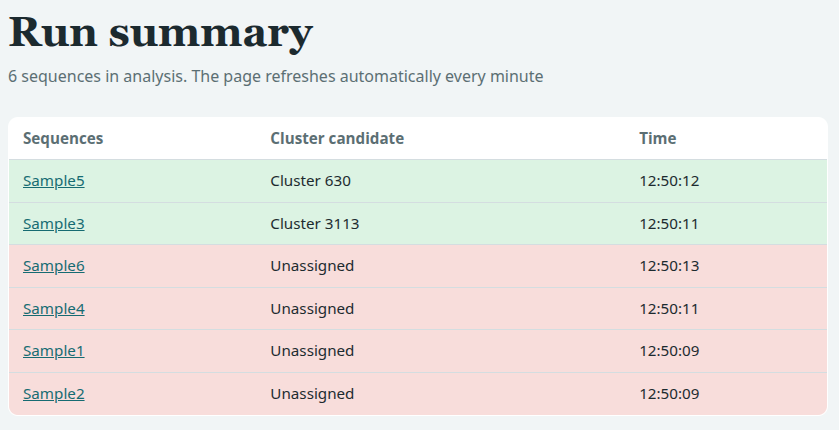
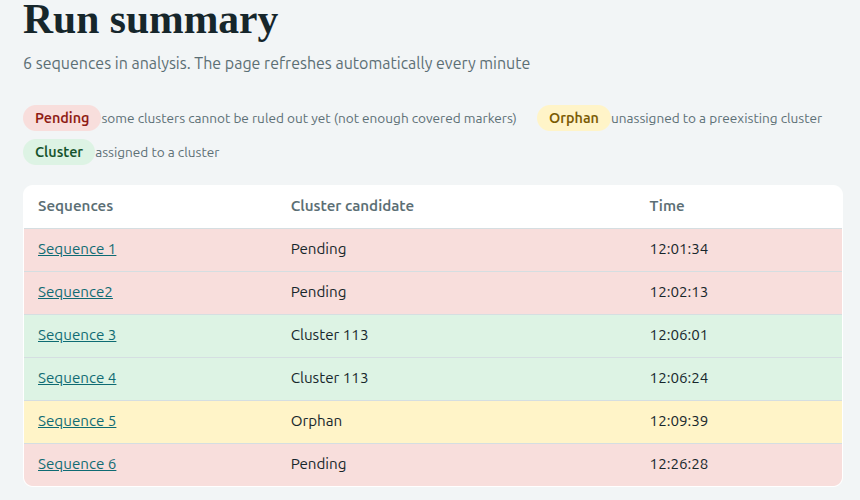
Update documentation

diff --git a/README.md b/README.md
@@ -2,9 +2,9 @@
 
 [![DOI](https://zenodo.org/badge/DOI/10.5281/zenodo.23393285.svg)](https://doi.org/10.5281/zenodo.23393285)
 
-**RT-TBCluster** follows a _Mycobacterium tuberculosis_ sequencing run **while it is still running** and tells you, sample by sample, whether each new case belongs to a known transmission cluster. It works with Oxford Nanopore sequencers, and it produces simple web pages (HTML reports) that update by themselves every minute.
+**RT-TBCluster** follows a _Mycobacterium tuberculosis_ sequencing run **while it is still running** and tells you, sample by sample, whether each new case belongs to a known transmission cluster, and whether the data collected so far are enough to trust that answer. It works with Oxford Nanopore sequencers and produces simple web pages (HTML reports) that update by themselves every minute.
 
-> **In one sentence:** you start the sequencer, you start RT-TBCluster, and within minutes you can already see which samples are linked to known outbreaks, instead of waiting until the run has finished.
+> **In one sentence:** you start the sequencer, you start RT-TBCluster, and within minutes you can already see which samples are linked to known outbreaks, which ones are not, and which ones still need more sequencing, instead of waiting until the run has finished.
 
 ---
 
@@ -18,7 +18,7 @@
 6. [Installation](#6-installation)
 7. [How to run it](#7-how-to-run-it)
 8. [All the options](#8-all-the-options)
-9. [How a sample is assigned to a cluster](#9-how-a-sample-is-assigned-to-a-cluster)
+9. [How each sample is classified](#9-how-each-sample-is-classified)
 10. [How to read the results](#10-how-to-read-the-results)
 11. [What is written to disk](#11-what-is-written-to-disk)
 12. [Stopping, restarting and safety](#12-stopping-restarting-and-safety)
@@ -36,34 +36,37 @@ Tuberculosis (TB) spreads from person to person, and public health teams group c
 
 Sequencing the bacteria's DNA is the most precise way to know this, and **Oxford Nanopore** sequencers produce data continuously, from the first minutes of a run. RT-TBCluster takes advantage of that: it analyses the data **as it is generated** and gives a preliminary answer for every sample long before the run ends.
 
+Just as important, it tells you **how much to trust each answer**. A sample that does not match any cluster is not always "not in a cluster": it may simply not have been sequenced enough yet. RT-TBCluster separates these two situations, so that you never read a premature negative result as a final one.
+
 RT-TBCluster is designed for:
 
 - **Public health and clinical microbiology laboratories** that already sequence TB with Nanopore and want fast answers.
-- **Epidemiologists and clinicians** who want to read the results without any programming: the output is a web page.
+- **Epidemiologists and clinicians** who want to read the results without any programming: the output is a colour-coded web page.
 - **Bioinformaticians** who want an automated, resumable real-time pipeline.
 
 You do **not** need to understand how the analysis works to read the reports. Section 10 explains them step by step.
 
 ## 2. The idea in plain words
 
-Imagine each known cluster has a few **fingerprint positions** (markers) in the TB genome: places where the bacteria of that cluster carry a specific change (a _SNP_) that other bacteria do not have. RT-TBCluster does the following, again and again, while the sequencer runs:
+Imagine each known cluster has a few **fingerprint positions** in the TB genome: places where the bacteria of that cluster carry a specific change (a _SNP_) that other bacteria do not have. RT-TBCluster does the following, again and again, while the sequencer runs:
 
 1. **Looks for new data** produced by the sequencer for each sample.
-2. **Aligns** the new DNA reads to a reference TB genome (like placing puzzle pieces on the picture of the finished puzzle).
+2. **Aligns** only the new DNA reads to a reference TB genome (like placing puzzle pieces on the picture of the finished puzzle) and adds them to what was already analysed.
 3. **Finds the differences** between the sample and the reference.
 4. **Compares** those differences with the fingerprint positions of every known cluster.
 5. **Decides** whether the sample carries enough fingerprints of a cluster to be assigned to it.
-6. **Checks how much data it has** at each fingerprint position, to know whether a missing fingerprint is truly absent or simply not sequenced yet.
-7. **Updates the reports** and waits for more data.
+6. **Measures the sequencing quality** of the sample: how deeply the genome has been read so far.
+7. **Verifies the coverage of every cluster** for samples without a cluster: are there enough reads at the fingerprint positions to be sure the sample does _not_ belong to that cluster?
+8. **Updates the reports** and waits for more data.
 
-When no new data has arrived for one hour, it understands that the run has finished and stops.
+When no new data has arrived for one hour, it understands that the run has finished, closes the analysis and writes the final report.
 
 ## 3. Workflow
 
 This is the full path of the data, from the run folder to the reports. The cycle repeats until the run ends.
 
 <p align="center">
-  <img src="docs/images/workflow.svg" width="100%" alt="TB-RT workflow: inputs feed an eight-step real-time loop (detect, map, merge, call, filter, compare, coverage, report) that repeats until one hour passes without new files">
+  <img src="docs/images/workflow.svg" width="100%" alt="RT-TBCluster workflow: inputs feed an eight-step real-time loop (detect, map, merge, call, filter, compare, coverage, report) that repeats until one hour passes without new files">
 </p>
 
 <p align="center"><em>In the animated diagram, the white dots travel around the loop and each step lights up when it is its turn.</em></p>
@@ -72,23 +75,29 @@ The important point is step 2: **only the new reads are aligned** and then added
 
 ## 4. Glossary: the words you will see
 
-| Term                       | What it means                                                                                                                                           |
-| -------------------------- | ------------------------------------------------------------------------------------------------------------------------------------------------------- |
-| **Nanopore**               | A sequencing technology that reads DNA in real time and saves the reads in small files as the run progresses.                                           |
-| **Barcode**                | A short DNA tag added to each sample so that many samples can be sequenced together in the same run. Each sample ends up in its own `barcodeXX` folder. |
-| **FASTQ**                  | The file format with the raw DNA reads and their quality.                                                                                               |
-| **Reference genome**       | The "picture of the finished puzzle": a known TB genome used to place the reads.                                                                        |
-| **Mapping / alignment**    | Placing each read at its position in the reference genome. The result is stored in a **BAM** file.                                                      |
-| **SNP**                    | A single-letter change in the DNA compared with the reference (for example, a C where the reference has a T).                                           |
-| **Variant calling**        | The step that finds the differences (SNPs, insertions, deletions) between a sample and the reference.                                                   |
-| **Depth (coverage)**       | How many reads cover a position. More reads means a more reliable answer.                                                                               |
-| **Allele frequency (VAF)** | The proportion of reads at a position that show the change. 100% means all reads agree.                                                                 |
-| **Transmission cluster**   | A group of cases whose bacteria are genetically almost identical, suggesting recent transmission.                                                       |
-| **Marker SNP**             | A SNP that is characteristic of a cluster. Carrying enough of them places a sample in that cluster.                                                     |
-| **Branch SNP**             | A SNP that belongs to a specific branch inside the cluster's genomic network. It refines the position of the sample _within_ the cluster.               |
-| **Called**                 | A SNP is _called_ when it was found in the sample with enough frequency and depth.                                                                      |
-| **Covered**                | A position is _covered_ when it has enough depth to be trusted, whether or not it carries the change.                                                   |
-| **Assigned / Unassigned**  | Whether the sample has been placed in a known cluster or not (yet).                                                                                     |
+| Term                          | What it means                                                                                                                                           |
+| ----------------------------- | ------------------------------------------------------------------------------------------------------------------------------------------------------- |
+| **Nanopore**                  | A sequencing technology that reads DNA in real time and saves the reads in small files as the run progresses.                                           |
+| **Barcode**                   | A short DNA tag added to each sample so that many samples can be sequenced together in the same run. Each sample ends up in its own `barcodeXX` folder. |
+| **FASTQ**                     | The file format with the raw DNA reads and their quality.                                                                                               |
+| **Reference genome**          | The "picture of the finished puzzle": a known TB genome used to place the reads.                                                                        |
+| **Mapping / alignment**       | Placing each read at its position in the reference genome. The result is stored in a **BAM** file.                                                      |
+| **SNP**                       | A single-letter change in the DNA compared with the reference (for example, a C where the reference has a T).                                           |
+| **Variant calling**           | The step that finds the differences (SNPs, insertions, deletions) between a sample and the reference.                                                   |
+| **Depth (coverage)**          | How many reads cover a position. More reads means a more reliable answer.                                                                               |
+| **Mean coverage**             | The average depth over the whole genome, for example 120x.                                                                                              |
+| **Allele frequency (VAF)**    | The proportion of reads at a position that show the change. 100% means all reads agree.                                                                 |
+| **Transmission cluster**      | A group of cases whose bacteria are genetically almost identical, suggesting recent transmission.                                                       |
+| **Marker SNP**                | A SNP that is characteristic of a cluster. Carrying enough of them places a sample in that cluster.                                                     |
+| **Branch SNP**                | A SNP that belongs to a specific branch inside the cluster's genomic network. It refines the position of the sample _within_ the cluster.               |
+| **Called**                    | A SNP is _called_ when it was found in the sample with enough frequency and depth.                                                                      |
+| **Covered**                   | A position is _covered_ when it has enough depth to be trusted, whether or not it carries the change.                                                   |
+| **Good quality / Suboptimal** | The _sequencing quality_ of a sample. Good quality means that most of its genome has been read deeply enough.                                           |
+| **Verified cluster**          | A cluster for which the sample has enough covered fingerprint positions to confidently say whether it belongs to it or not.                             |
+| **Cluster**                   | The sample has been assigned to a preexisting cluster.                                                                                                  |
+| **Orphan**                    | The sample is unassigned to a preexisting cluster, and there is enough data to be sure about it.                                                        |
+| **Pending**                   | The sample is not assigned to any cluster yet, but there is not enough data to rule out every cluster.                                                  |
+| **Suboptimal (final result)** | A sample that was still _Pending_ when the run ended.                                                                                                   |
 
 ## 5. What you need before starting
 
@@ -144,14 +153,16 @@ Here, positions 1234 and 5678 are marker SNPs of cluster **15**, and position 90
 
 ## 6. Installation
 
-RT-TBCluster is a Python script that uses several well-known bioinformatics programs. The easiest way to install them is with [conda](https://docs.conda.io/):
+RT-TBCluster is a Python script that uses several well-known bioinformatics programs. The easiest way to install everything is with [conda](https://docs.conda.io/) and the `environment.yml` file of this repository:
 
 ```bash
 git clone https://github.com/MG-IiSGM/RT-TBCluster.git
 cd RT-TBCluster
-conda env create -f environment.yml -y
+conda env create -f environment.yml
 conda activate rt-tbcluster
 ```
+
+If conda takes too long to solve the environment, try `mamba env create -f environment.yml`.
 
 Programs used:
 
@@ -174,7 +185,7 @@ python realtime_cluster.py \
     -r reference.fasta \
     -c clusters.tsv \
     -o Results \
-    -t 32
+    -t 16
 ```
 
 | Option | Meaning                                          |
@@ -188,7 +199,11 @@ python realtime_cluster.py \
 
 Start it **at the same time as the sequencing run**, or at any moment during it. If the run takes hours, we recommend launching it inside `screen` or `tmux`, so it keeps running if you close the terminal.
 
-While it runs, the terminal prints one line per sample after each analysis: in **bold green** when the sample is assigned to a cluster and in **red** when it is unassigned.
+While it runs, the terminal prints one line per sample after each analysis, with the result and, in grey, the sequencing quality:
+
+- **bold green:** the sample is assigned to a cluster.
+- **yellow:** the sample is an orphan.
+- **red:** the sample is pending (or suboptimal at the end of the run).
 
 ![Terminal output example](docs/images/terminal_example.png)
 
@@ -207,6 +222,7 @@ To follow the results, open `Results/reports/Summary.html` in any web browser. I
 | `--amplicon`             | off      | Use it for amplicon sequencing data (aligns with NGMLR).                                                                 |
 | `--annot_min_freq`       | 0.8      | Minimum allele frequency for a SNP to be _called_ (equal or greater).                                                    |
 | `--annot_min_dp`         | 10       | Depth that a SNP or position must **exceed** to be _called_ or _covered_.                                                |
+| `--min_genome_frac`      | 0.9      | Fraction of the genome that must exceed `--annot_min_dp` to be _Good quality_ (equal or greater).                        |
 | `--min_allele_frequency` | 0.1      | Minimum frequency for the first, more permissive, detection of variants.                                                 |
 | `--min_quality`          | 12       | Minimum base quality.                                                                                                    |
 | `--min_mapping`          | 60       | Minimum mapping quality.                                                                                                 |
@@ -215,12 +231,14 @@ To follow the results, open `Results/reports/Summary.html` in any web browser. I
 | `--settle`               | 30       | A file is used only after it has not changed for this many seconds, to avoid reading files that are still being written. |
 | `--idle_timeout`         | 3600     | The analysis stops after this many seconds without new files.                                                            |
 
-## 9. How a sample is assigned to a cluster
+## 9. How each sample is classified
+
+### 9.1 Assigning a sample to a cluster
 
 A SNP counts as **called** only if it passes both requirements: **allele frequency of at least 80%** and **depth above 10 reads**. Then, for each cluster, the rule is:
 
 <p align="center">
-  <img src="docs/images/assignment_rule.svg" width="100%" alt="Assignment rule: with 10 or fewer marker SNPs all must be called, with more than 10 at least 10 must be called; if the rule is met the sample is assigned, otherwise unassigned">
+  <img src="docs/images/assignment_rule.svg" width="100%" alt="Assignment rule: with 10 or fewer marker SNPs all must be called, with more than 10 at least 10 must be called; if the rule is met the sample is assigned, otherwise the coverage of all clusters is checked and the sample is orphan or pending">
 </p>
 
 Two examples:
@@ -230,7 +248,37 @@ Two examples:
 
 Once a sample is assigned, the **branch SNPs** that it carries are reported to place it more precisely within the genomic network of the cluster. Branch SNPs do not decide the assignment, they only refine it.
 
-> **Important:** this is a **preliminary, real-time assignment**. It can change as more data arrives, and it should be confirmed with the standard analysis of the complete run, once it has finished.
+### 9.2 Orphan or pending: verifying every cluster
+
+If a sample does not meet the rule of any cluster, RT-TBCluster does not simply give up with a negative answer. A missing fingerprint can mean two very different things: the sample **really does not carry it**, or the position **has not been sequenced enough yet**.
+
+To tell them apart, it checks the _coverage_ of the fingerprint positions of **every cluster**, using the same philosophy as the assignment: a cluster is **verified** when at least **10** of its marker positions are covered (depth above 10), or **all** of them if the cluster has 10 or fewer markers. Here only coverage matters, whether or not the sample carries the SNP.
+
+- If **every cluster is verified**, there is enough data to be sure: the sample is **Orphan**.
+- If **at least one cluster is not verified yet**, the sample is **Pending**: more sequencing may still change the answer.
+
+### 9.3 Sequencing quality
+
+Independently of the cluster, every sample is given a **sequencing quality**, shown in its report:
+
+- **Mean coverage** of the whole genome (for example, 120x).
+- **Percentage of the genome above 10x** (for example, 98.6%).
+- The sample is **Good quality** when at least **90% of the genome** is above 10x. Otherwise it is **Suboptimal**.
+
+The sequencing quality is informative: it does not decide the cluster result. It helps you to judge how complete the data of a sample are.
+
+### 9.4 The final states
+
+| State          | Meaning                                                                                                     | Colour in the summary |
+| -------------- | ----------------------------------------------------------------------------------------------------------- | --------------------- |
+| **Cluster**    | The sample meets the assignment rule of a cluster.                                                          | Green                 |
+| **Orphan**     | No cluster, and every cluster has been verified: unassigned to a preexisting cluster.                       | Yellow                |
+| **Pending**    | No cluster yet, and at least one cluster still needs more covered markers. The run is still going.          | Red                   |
+| **Suboptimal** | A sample that was still _Pending_ when the run ended: the data were never enough to rule out every cluster. | Red                   |
+
+Samples can move along the run: from _Pending_ to _Orphan_ or _Cluster_ as more reads arrive. The _Suboptimal_ label only appears at the end.
+
+> **Important:** this is a **preliminary, real-time classification**. It can change as more data arrives, and it should be confirmed with the standard analysis of the complete run, once it has finished.
 
 ## 10. How to read the results
 
@@ -238,40 +286,64 @@ All reports are web pages in `Results/reports/`. Open them in any browser.
 
 ### 10.1 The run summary: `Summary.html`
 
-One row per sample. The colour tells you the result at a glance:
+One row per sample, with three columns: the sample, its **cluster candidate** (a cluster, _Orphan_ or _Pending_) and the time of the last update. The colour tells you the result at a glance:
 
-- **Green row:** the sample is assigned to a cluster (the cluster is written in the row).
-- **Red row:** the sample is unassigned.
+- **Green row:** the sample is assigned to a cluster.
+- **Yellow row:** the sample is an orphan.
+- **Red row:** the sample is pending (or suboptimal, once the run has ended).
 
-The page refreshes every minute, so you can leave it open during the whole run. Click on a sample name to open its individual report.
+A legend at the top of the page explains the colours. The page refreshes every minute, so you can leave it open during the whole run. Click on a sample name to open its individual report.
 
 ![Run summary example](docs/images/summary_example.png)
 
 ### 10.2 Individual report of a sample assigned to a cluster
 
-At the top, you find the sample name and, below it, the candidate cluster. Then there is one card per cluster, with two bars:
+At the top, you find the sample name and, below it, a coloured label with the candidate cluster. Then:
 
-- **Marker SNPs** (teal bar): _"27 total marker SNPs: 24 markers called of 27 covered"_.
-- **Branch marker SNPs** (orange bar): the same, for the branch SNPs.
+- **Sequencing quality:** the mean coverage, the percentage of the genome above 10x, and a bar with a vertical mark at the Good quality threshold (90%). The label _Good quality_ or _Suboptimal_ is shown in the corner. This card appears in **every** report.
+- **One card per assigned cluster,** with two bars:
+  - **Marker SNPs** (teal bar): _"27 total marker SNPs: 24 called of 27 covered"_.
+  - **Branch marker SNPs** (orange bar): the same, for the branch SNPs.
 
 How to read each line:
 
 - **Total** is how many fingerprint positions the cluster has in the catalogue.
-- **Covered** is in how many of them the sample has enough data (depth above the threshold) to be trusted.
 - **Called** is in how many of them the sample actually carries the cluster's variant.
+- **Covered** is in how many of them the sample has enough data (depth above the threshold) to be trusted.
 - **The coloured bar** shows _called_ out of _total_.
 
-Why does _covered_ matter? A fingerprint that is **covered but not called** means that the sample really does not carry it. A fingerprint that is **not covered** means that we do not know yet, so the answer may change if you keep sequencing. This is how you can tell a true absence from a lack of data.
+A fingerprint that is **covered but not called** means that the sample really does not carry it. A fingerprint that is **not covered** means that we do not know yet.
 
 Below the cards, **Evolution during the run** is a table showing how the result changed as more files were analysed.
 
 ![Individual report of a sample assigned to a cluster](docs/images/report_assigned_example.png)
 
-### 10.3 Individual report of an unassigned sample
+![Individual report of a suboptimal sample assigned to a cluster](docs/images/report_assigned_example_subopt.png)
 
-The header states **"No candidate cluster assigned"**, and the evolution table shows the result at each moment. It simply means that, with the data available so far, the sample does not carry enough fingerprints of any known cluster. If the run is still going, it may change.
+### 10.3 Individual report of an orphan sample
 
-![Individual report of an unassigned sample](docs/images/report_unassigned_example.png)
+The header states **"Orphan"**. Below the sequencing quality card, a **Cluster verification** card says _"Complete"_ and that all clusters have enough covered markers: the sample is truly not part of any preexisting cluster, and the result is not due to a lack of data.
+
+![Individual report of an orphan sample](docs/images/report_unassigned_example.png)
+
+![Individual report of an pending sample](docs/images/report_unassigned_example_opt.png)
+
+![Individual report of an suboptimal sample](docs/images/report_unassigned_example_subopt.png)
+
+### 10.4 Individual report of a pending sample
+
+The header states **"Pending"**. Below the sequencing quality card, the **Cluster verification** card says how many clusters still need more covered markers, for example _"2 of 3 clusters pending"_. Click on **"Show the clusters that are missing"** to expand a list, with the progress of each one:
+
+```
+Cluster 15: 8 of 12 markers covered (10 needed)
+Cluster 7:  2 of 5 markers covered (5 needed)
+```
+
+The clusters closest to being completed are listed first. This tells you, for each sample, **what is still missing** before the result can be trusted.
+
+At the end of the run, the samples that are still pending are labelled **Suboptimal**: the data were not enough to rule out every cluster, and you may want to sequence them again.
+
+![Individual report of a pending sample](docs/images/report_pending_example.png)
 
 ## 11. What is written to disk
 
@@ -289,7 +361,7 @@ Results/
         └── SAMPLE_A-141/            <- Results of the analysis with 141 files
             ├── variants/            <- Variant files (VCF and tables)
             ├── SAMPLE_A-141.annotated.tsv   <- Every variant, labelled Marker-X / Branch-X
-            ├── cluster_positions.bed        <- Cluster positions that were checked
+            ├── cluster_positions.bed        <- Cluster positions whose coverage was checked
             └── cluster_positions.depth      <- Depth at each of those positions
 ```
 
@@ -298,39 +370,49 @@ The number after the sample name (`-141`) is **how many FASTQ files** had been a
 ## 12. Stopping, restarting and safety
 
 - **Your sequencing data is safe.** RT-TBCluster never writes inside the run folder.
-- **It stops by itself** after one hour without new files (change it with `--idle_timeout`). You can also stop it at any time with `Ctrl + C`.
-- **You can restart it.** The file `state.json` remembers which files were already analysed. If you launch the same command again with the same output folder, it continues from where it stopped, and only processes the new files.
+- **It stops by itself** after one hour without new files (change it with `--idle_timeout`). At that moment it **closes the analysis**: the samples that were still _Pending_ are relabelled **Suboptimal**, the final reports are written, and the terminal prints a final count of each result.
+- **Stopping it manually** with `Ctrl + C` does not close the analysis: the pending samples stay as _Pending_.
+- **You can restart it.** The file `state.json` remembers which files were already analysed. If you launch the same command again with the same output folder, it continues from where it stopped, and only processes the new files. If a sample receives new files after having been closed as _Suboptimal_, it is analysed again as _Pending_.
 - **Do not run two copies at the same time** with the same output folder, because they would overwrite each other's files.
 - If you stop the program while a sample is being analysed, delete the folder `samples/<sample>/<sample>-N/` of that last step before restarting, to avoid using an incomplete file.
 
 ## 13. Troubleshooting
 
-| Message or problem                            | Probable cause and solution                                                                                                                                           |
-| --------------------------------------------- | --------------------------------------------------------------------------------------------------------------------------------------------------------------------- |
-| `-o cannot be inside -i`                      | The output folder is inside the run folder. Choose another folder.                                                                                                    |
-| `There is not barcodeXX yet (fastq_pass)`     | That barcode has not produced files yet, or the name in your table is wrong. It is only a warning: RT-TBCluster will keep looking.                                    |
-| `samtools depth did not return any positions` | The name in the first column of the cluster file does not match the name of the sequence in the reference. Check it with `samtools view -H file.bam \| grep @SQ`.     |
-| `The cumulative BAM ... is missing`           | A previous run was interrupted and some files were removed. Delete that sample's entry in `state.json` and its folder in `samples/` to analyse it again from scratch. |
-| Every sample is "Unassigned" at the beginning | Normal: not enough data has been sequenced yet. Wait and watch how the result evolves.                                                                                |
-| The reports do not update                     | Reload the page. The reports only change when new files have been analysed.                                                                                           |
-| A column of the catalogue is not found        | Check that the header is exactly the one in section 5.4, with tabs between columns.                                                                                   |
+| Message or problem                            | Probable cause and solution                                                                                                                                             |
+| --------------------------------------------- | ----------------------------------------------------------------------------------------------------------------------------------------------------------------------- |
+| `-o cannot be inside -i`                      | The output folder is inside the run folder. Choose another folder.                                                                                                      |
+| `There is not barcodeXX yet (fastq_pass)`     | That barcode has not produced files yet, or the name in your table is wrong. It is only a warning: RT-TBCluster will keep looking.                                      |
+| `samtools depth did not return any positions` | The name in the first column of the cluster file does not match the name of the sequence in the reference. Check it with `samtools view -H file.bam \| grep @SQ`.       |
+| `Genome coverage could not be calculated`     | `samtools` is not available in the environment, or the alignment file is damaged. Check that the environment is activated.                                              |
+| `The cumulative BAM ... is missing`           | A previous run was interrupted and some files were removed. Delete that sample's entry in `state.json` and its folder in `samples/` to analyse it again from scratch.   |
+| Every sample is _Pending_ at the beginning    | Normal: not enough data has been sequenced yet. Wait and watch how the result evolves.                                                                                  |
+| A sample stays _Pending_ for a long time      | Open its report and expand the list of missing clusters: some marker positions are not being covered. It may need more sequencing, or those regions may be hard to map. |
+| The reports do not update                     | Reload the page. The reports only change when new files have been analysed.                                                                                             |
+| A column of the catalogue is not found        | Check that the header is exactly the one in section 5.4, with tabs between columns.                                                                                     |
 
 ## 14. Limitations
 
-- The assignment is **preliminary**: it uses the data produced up to that moment, and must be confirmed with the complete analysis.
-- Samples with low DNA, low quality or few reads will take longer to reach enough depth, or may never do it.
-- It only recognises the clusters that are in your catalogue. A sample that does not belong to any of them will show as unassigned, even if it is part of a new outbreak.
-- This tool supports, but does not replace, the interpretation of the epidemiologist and the standard laboratory procedures. It has not been certified for clinical diagnosis.
+- The classification is **preliminary**: it uses the data produced up to that moment, and must be confirmed with the complete analysis.
+- _Orphan_ means "not in any cluster of **your catalogue**". A sample that does not belong to any of them will show as an orphan, even if it is part of a new outbreak.
+- _Pending_ and _Suboptimal_ describe the **amount of data**, not the quality of the laboratory work. Samples with little DNA or low quality will take longer to reach enough depth, or may never do it.
+- The verification of clusters checks the **coverage** of the fingerprint positions. It follows the same rule as the assignment, and it does not replace the interpretation of the complete analysis.
+- This tool supports, but does not replace, the interpretation of the epidemiologist and the standard laboratory procedures. It has not been certified for clinical diagnosis [**edit according to your case**].
 
 ## 15. Citation
 
+If you use RT-TBCluster in your work, please cite the software:
+
 > Buenestado-Serrano S. RT-TBCluster: real-time tracking of tuberculosis transmission clusters. Zenodo. 2026. https://doi.org/10.5281/zenodo.23393285
 
-GitHub also offers a ready-made citation through the "Cite this repository" button, generated from the `CITATION.cff` file.
+<!-- and the associated article:
+
+> [Authors]. [Title of the article]. [Journal], [Year]. [DOI] -->
+
+GitHub also offers a ready-made citation through the **"Cite this repository"** button, generated from the `CITATION.cff` file.
 
 ## 16. License
 
-This project is released under the **GPL-3.0 license** license. See the [LICENSE](LICENSE) file for details.
+This project is released under the **[LICENSE NAME]** license. See the [LICENSE](LICENSE) file for details.
 
 ## 17. Acknowledgements
 
